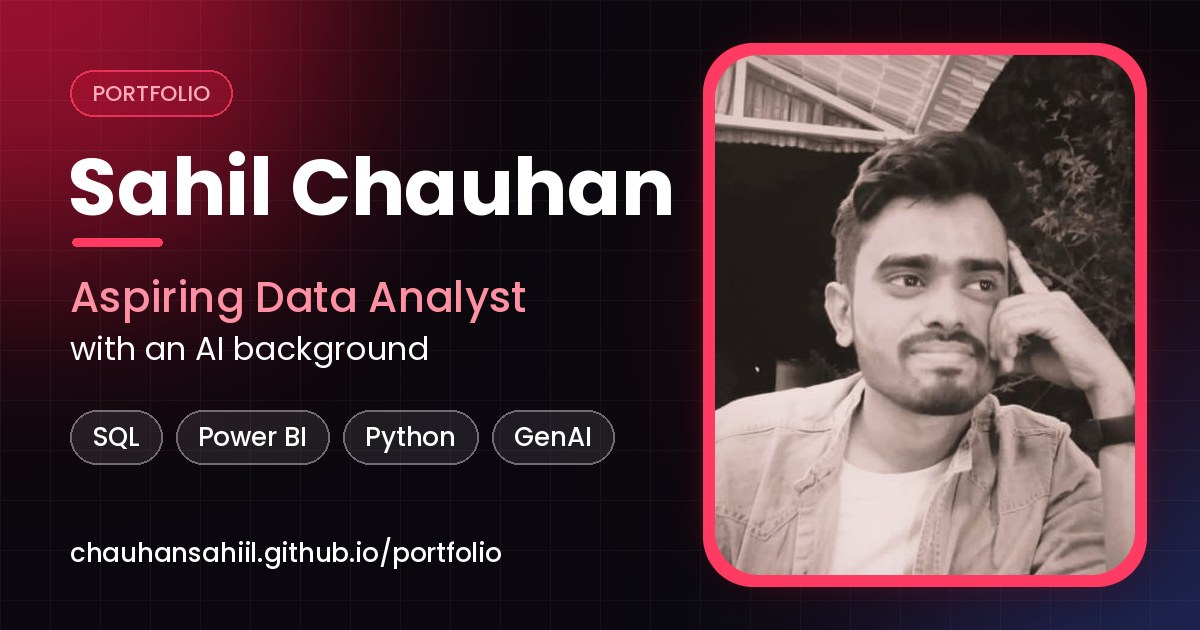
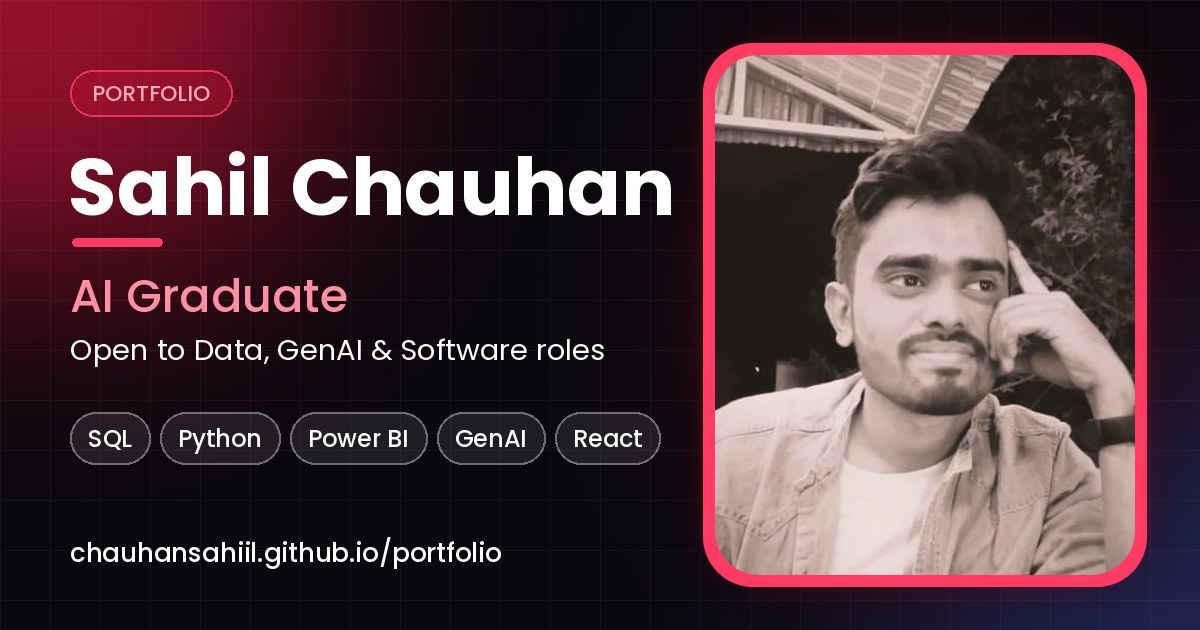
Role picker, role resumes, broader headline

Changed region(s): [[0.0617, 0.6333, 0.555, 0.754], [0.0617, 0.4222, 0.4317, 0.5127], [0.0617, 0.5429, 0.5242, 0.573]]

diff --git a/enhance.js b/enhance.js
@@ -5,6 +5,7 @@ var $=function(s,c){return(c||document).querySelector(s)},$$=function(s,c){retur
 var calm=matchMedia('(prefers-reduced-motion:reduce)').matches,fine=matchMedia('(pointer:fine)').matches;
 var mouse={x:innerWidth/2,y:innerHeight/2};
 var resume=C.RESUME_URL||(C.WORKER_URL?C.WORKER_URL+'/resume':'#contact');
+function rurl(role){if(C.RESUME_URL)return C.RESUME_URL;if(!C.WORKER_URL)return'#contact';return C.WORKER_URL+'/resume'+(C.ROLE_RESUMES&&role?'?role='+role:'')}
 $$('[data-resume]').forEach(function(a){a.href=resume;if(resume[0]!=='#'){a.target='_blank';a.rel='noopener'}});
 
 /* cursor glow */
@@ -76,6 +77,28 @@ function frame(){tick=false;
     its.forEach(function(it){var q=it.getBoundingClientRect(),d=Math.abs(q.top+q.height/2-mid);it.classList.toggle('lit',q.top<innerHeight*.62);if(d<bd){bd=d;best=it}});
     its.forEach(function(it){it.classList.toggle('active',inView&&bd<innerHeight*.6&&it===best)})}}
 addEventListener('scroll',function(){if(!tick){tick=true;requestAnimationFrame(frame)}},{passive:true});addEventListener('resize',frame);frame();
+
+/* ---------- role focus: pick a role to highlight the most relevant work and get the matching resume ---------- */
+var FOCUS_ROLES={
+ data:{label:'Data Analyst',kw:['customer trends','kulturehire','accenture','data analysis with python','analysis & visualization','data preparation','data analytics','statistics','pandas']},
+ ai:{label:'AI / GenAI',kw:['ml & ai','nvidia','deep learning','artificial intelligence','machine learning','neural','genai','llm']},
+ software:{label:'Software Developer',kw:['secure banking','blockchain','tenet','full stack','ethereum','devops','programming','databases','codesoft']}};
+var roleNow='';
+function focusUnits(){var u=[];
+ [['.services .card',1],['.experience-item',1],['.cert-card',0],['.course-panel',0]].forEach(function(g){$$(g[0]).forEach(function(el){u.push({els:[el],text:el.textContent.toLowerCase(),badge:g[1]})})});
+ $$('.skills .group-label').forEach(function(lab){var t=lab.nextElementSibling,els=[lab];if(t)els.push(t);u.push({els:els,text:(lab.textContent+' '+(t?t.textContent:'')).toLowerCase(),badge:0})});
+ return u}
+function applyRole(){var on=!!roleNow,keys=on?FOCUS_ROLES[roleNow].kw:[];
+ $$('.role-pick').forEach(function(p){$$('button[data-role]',p).forEach(function(b){var a=b.getAttribute('data-role')===roleNow;b.classList.toggle('on',a);b.setAttribute('aria-pressed',a?'true':'false')});var rs=$('.rp-reset',p);if(rs)rs.hidden=!on});
+ document.documentElement.setAttribute('data-role',roleNow);
+ $$('[data-resume]').forEach(function(a){a.href=rurl(roleNow);a.textContent='Download Resume'+(on&&C.ROLE_RESUMES?' ('+FOCUS_ROLES[roleNow].label+')':'')});
+ var groups={};focusUnits().forEach(function(u){u.m=keys.some(function(k){return u.text.indexOf(k)>-1});var key=u.els[0].className.split(' ')[0]||'x';(groups[key]=groups[key]||[]).push(u)});
+ Object.keys(groups).forEach(function(k){var g=groups[k],any=g.some(function(u){return u.m});
+  g.forEach(function(u){var match=on&&any&&u.m,dim=on&&any&&!u.m;
+   u.els.forEach(function(el){el.classList.toggle('role-match',match);el.classList.toggle('role-dim',dim)});
+   if(u.badge){var el=u.els[0],b=$('.rel-badge',el);if(match&&!b){b=document.createElement('span');b.className='rel-badge';b.textContent='Most relevant';el.insertBefore(b,el.firstChild)}else if(!match&&b)b.parentNode.removeChild(b)}})})}
+function setRole(r){roleNow=(r&&FOCUS_ROLES[r]&&roleNow!==r)?r:'';applyRole()}
+document.addEventListener('click',function(ev){var b=ev.target.closest&&ev.target.closest('.role-pick button');if(!b)return;if(b.classList.contains('rp-reset'))setRole('');else setRole(b.getAttribute('data-role'))});
 
 /* ---------- job fit checker (runs only in the browser, nothing is sent) ---------- */
 var SKILLDATA=null;
@@ -161,7 +184,7 @@ var SKILLDATA=null;
  function li(n,t){return'<li><b>'+n+'</b><span>'+t+'</span></li>'}
  function show(h){out.innerHTML=h;out.hidden=false;var b=$('#fit-ai');if(b)b.onclick=function(){openAI(true)};var cb=$('#fit-copy');if(cb)cb.onclick=function(){copyText(reportText(),cb)};var pb=$('#fit-pdf');if(pb)pb.onclick=printReport;out.scrollIntoView({behavior:calm?'auto':'smooth',block:'nearest'})}
  function pracHtml(pr){return'<div class="fit-prac"><h4>Practical fit</h4><ul>'+pr.map(function(p){return'<li class="'+p[0]+'"><i>'+({ok:'\u2713',warn:'!',info:'i'}[p[0]])+'</i><span>'+p[1]+'</span></li>'}).join('')+'</ul></div>'}
- function ctaHtml(){return'<div class="fit-cta"><a class="pillbtn" href="'+resume+'"'+(resume[0]==='#'?'':' target="_blank" rel="noopener"')+'>Download resume</a><a class="pillbtn ghost" href="#contact">Contact Sahil</a><button type="button" class="pillbtn ghost" id="fit-ai">Ask the AI more</button></div>'}
+ function ctaHtml(){var u=roleResume(fitRole);return'<div class="fit-cta"><a class="pillbtn" href="'+u+'"'+(u[0]==='#'?'':' target="_blank" rel="noopener"')+'>Download resume'+roleLabel(fitRole)+'</a><a class="pillbtn ghost" href="#contact">Contact Sahil</a><button type="button" class="pillbtn ghost" id="fit-ai">Ask the AI more</button></div>'}
  function note(m){return'<p class="fit-note">'+m+'</p>'}
  function fmt(n){return(Math.round(n*10)/10).toString()}
  function esc(s){return String(s).replace(/&/g,'&amp;').replace(/</g,'&lt;').replace(/>/g,'&gt;').replace(/"/g,'&quot;').replace(/'/g,'&#39;')}
@@ -237,19 +260,22 @@ var SKILLDATA=null;
   if(mx>=30&&!shown)add('info','Posting age: it says posted '+pt+', so the role may no longer be open. Please confirm on the employer\'s page.');
   return r}
 
- var last=null;
+ var last=null,fitRole='';
+ function famOf(hit){var F={data:/^(SQL|Power BI|Tableau|Excel|Data analysis|Reporting|Statistics|Data visualization|Data cleaning)/,ai:/^(GenAI|Machine learning|Deep learning|NLP|Computer vision|Reinforcement)/,software:/^(JavaScript|Node|REST|MongoDB|Git|Object-oriented|CI\/CD|AWS|Snowflake)/},best='',n=0;for(var k in F){var c=hit.filter(function(s){return F[k].test(s[0])}).length;if(c>n){n=c;best=k}}return best}
+ function roleResume(r){return typeof rurl==='function'?rurl(r):resume}
+ function roleLabel(r){return(typeof C!=='undefined'&&C.ROLE_RESUMES&&r&&typeof FOCUS_ROLES!=='undefined'&&FOCUS_ROLES[r])?' ('+FOCUS_ROLES[r].label+')':''}
  function reportHtml(){return'<div class="fit-share"><span>Share this result</span><button type="button" class="pillbtn" id="fit-copy">Copy summary</button><button type="button" class="pillbtn ghost" id="fit-pdf">Save as PDF</button></div>'}
  function unesc(s){return String(s).replace(/&lt;/g,'<').replace(/&gt;/g,'>').replace(/&quot;/g,'"').replace(/&#39;/g,"'").replace(/&amp;/g,'&')}
  function today(){return new Date().toLocaleDateString('en-IN',{day:'numeric',month:'short',year:'numeric'})}
  function siteUrl(){return location.origin+location.pathname}
- function reportText(){var r=last;if(!r)return'';var L=['JOB FIT SUMMARY','Candidate: Sahil Chauhan, aspiring Data Analyst (B.Tech in Artificial Intelligence, 2025), Nagpur, India','Checked on: '+today()];
+ function reportText(){var r=last;if(!r)return'';var L=['JOB FIT SUMMARY','Candidate: Sahil Chauhan, AI graduate open to Data, GenAI and Software roles (B.Tech in Artificial Intelligence, 2025), Nagpur, India','Checked on: '+today()];
   if(r.ex)L.push('Description starts with: "'+r.ex+'"');
   L.push('','VERDICT: '+r.title,r.parts.join(' '));
   if(r.hit.length){L.push('','WHERE HE FITS');r.hit.forEach(function(x){L.push('- '+x[0]+': '+x[1])})}
   if(r.miss.length){L.push('','NOT ON HIS LIST YET');r.miss.forEach(function(x){L.push('- '+x[0]+': '+x[1])})}
   if(r.pr.length){L.push('','PRACTICAL FIT');r.pr.forEach(function(p){L.push('['+({ok:'OK',warn:'CHECK',info:'INFO'}[p[0]])+'] '+unesc(p[1]))})}
   if(r.ns.length){L.push('','NOTES');r.ns.forEach(function(n){L.push('- '+n)})}
-  L.push('','Portfolio: '+siteUrl());if(resume[0]!=='#')L.push('Resume: '+resume);L.push('Contact: chauhansahil03115@gmail.com');
+  var ru=roleResume(r.role);L.push('','Portfolio: '+siteUrl());if(ru[0]!=='#')L.push('Resume: '+ru);L.push('Contact: chauhansahil03115@gmail.com');
   return L.join('\n')}
  function copyText(s,btn){var o=btn.textContent;
   function done(ok){btn.textContent=ok?'Copied \u2713':'Copy failed';btn.disabled=true;setTimeout(function(){btn.textContent=o;btn.disabled=false},2000)}
@@ -257,13 +283,13 @@ var SKILLDATA=null;
   if(navigator.clipboard&&window.isSecureContext)navigator.clipboard.writeText(s).then(function(){done(true)},fb);else fb()}
  function printHtml(r){var tone={ok:'#15803d',warn:'#b45309',bad:'#b91c1c',info:'#475569'}[r.lv]||'#475569',E=function(s){return esc(unesc(s))};
   function list(a){return a.map(function(x){return'<li><b>'+E(x[0])+'</b><span>'+E(x[1])+'</span></li>'}).join('')}
-  var h='<div class="rp-head"><div><h1>Job fit report</h1><p>Sahil Chauhan &middot; Aspiring Data Analyst &middot; B.Tech in Artificial Intelligence (2025) &middot; Nagpur, India</p></div><div class="rp-date">'+esc(today())+'</div></div>';
+  var h='<div class="rp-head"><div><h1>Job fit report</h1><p>Sahil Chauhan &middot; AI graduate open to Data, GenAI and Software roles &middot; B.Tech in Artificial Intelligence (2025) &middot; Nagpur, India</p></div><div class="rp-date">'+esc(today())+'</div></div>';
   if(r.ex)h+='<p class="rp-ex">Description: &ldquo;'+E(r.ex)+'&rdquo;</p>';
   h+='<div class="rp-verdict" style="border-color:'+tone+'"><h2 style="color:'+tone+'">'+E(r.title)+'</h2><p>'+E(r.parts.join(' '))+'</p></div>';
   if(r.hit.length||r.miss.length)h+='<div class="rp-cols"><div class="rp-col"><h3>Where he fits</h3><ul>'+(r.hit.length?list(r.hit):'<li><span>No direct matches found.</span></li>')+'</ul></div><div class="rp-col"><h3>Not on his list yet</h3><ul>'+(r.miss.length?list(r.miss):'<li><span>None of the tools checked.</span></li>')+'</ul></div></div>';
   if(r.pr.length)h+='<div class="rp-prac"><h3>Practical fit</h3><ul>'+r.pr.map(function(p){return'<li class="'+p[0]+'"><i>'+({ok:'\u2713',warn:'!',info:'i'}[p[0]])+'</i><span>'+E(p[1])+'</span></li>'}).join('')+'</ul></div>';
   if(r.ns.length)h+='<ul class="rp-notes">'+r.ns.map(function(n){return'<li>'+E(n)+'</li>'}).join('')+'</ul>';
-  h+='<div class="rp-foot"><p><b>Portfolio:</b> '+E(siteUrl())+(resume[0]!=='#'?'<br><b>Resume:</b> '+E(resume):'')+'<br><b>Contact:</b> chauhansahil03115@gmail.com</p><p>This is a keyword comparison against Sahil\'s portfolio, not a hiring decision.</p></div>';
+  h+='<div class="rp-foot"><p><b>Portfolio:</b> '+E(siteUrl())+(roleResume(r.role)[0]!=='#'?'<br><b>Resume:</b> '+E(roleResume(r.role)):'')+'<br><b>Contact:</b> chauhansahil03115@gmail.com</p><p>This is a keyword comparison against Sahil\'s portfolio, not a hiring decision.</p></div>';
   return h}
  function printReport(){var r=last;if(!r)return;var el=document.getElementById('fit-report');if(!el){el=document.createElement('div');el.id='fit-report';document.body.appendChild(el)}el.innerHTML=printHtml(r);window.print()}
  function run(){var raw=inp.value,t=clean(raw).trim();
@@ -281,8 +307,9 @@ var SKILLDATA=null;
    sh.concat(sg).forEach(function(k){if(m==='req')cls[k[0]]='req';else if(!cls[k[0]])cls[k[0]]='pref'})});
   var hit=SK.filter(function(s){return cls[s[0]]}),miss=GAP.filter(function(s){return cls[s[0]]}),dom=domains(t);
   if(hit.some(function(s){return s[0]==='Power BI / DAX'||s[0]==='Tableau'}))hit=hit.filter(function(s){return s[0]!=='Data visualization'});
+  fitRole=famOf(hit);
   if(!hit.length&&!miss.length){var nt=/nurse|doctor|physician|driver|mechanic|electrician|plumber|chef|waiter|teacher|accountant|cashier|warehouse|civil engineer|mechanical engineer|security guard|sales executive|retail/i.test(t);
-   var p0=prac(t),msg=dom?'This role is centred on '+dom+', which is outside Sahil\'s listed experience, and I could not match any tools or skills here against his profile.':(nt?'This looks like a role outside data, AI and software, so Sahil\'s profile is not a match for it.':'This description does not name tools or skills that I can compare with Sahil\'s profile, so I cannot give a skills verdict. Please read it yourself or ask Sahil directly.');last={title:'No skills verdict',lv:'info',parts:[msg],hit:[],miss:[],pr:p0,ns:['This is a keyword comparison against his portfolio, not a hiring decision, so please read the full description too.'],ex:excerpt};return show(note(msg)+(p0.length?pracHtml(p0):'')+reportHtml()+ctaHtml())}
+   var p0=prac(t),msg=dom?'This role is centred on '+dom+', which is outside Sahil\'s listed experience, and I could not match any tools or skills here against his profile.':(nt?'This looks like a role outside data, AI and software, so Sahil\'s profile is not a match for it.':'This description does not name tools or skills that I can compare with Sahil\'s profile, so I cannot give a skills verdict. Please read it yourself or ask Sahil directly.');last={role:'',title:'No skills verdict',lv:'info',parts:[msg],hit:[],miss:[],pr:p0,ns:['This is a keyword comparison against his portfolio, not a hiring decision, so please read the full description too.'],ex:excerpt};return show(note(msg)+(p0.length?pracHtml(p0):'')+reportHtml()+ctaHtml())}
   var x0=exp(t),yrs=x0.yrs,senior=/\bsenior\b|\bprincipal\b|\bstaff\b|\bhead of\b|\bdirector\b|\bmanager\b|\blead\b|\barchitect\b/i.test(t.slice(0,160)),
    fresher=/fresher|entry[- ]level|trainee|junior|campus hire|recent graduate|fresh graduate|new graduate|0\s*(?:-|\u2013|to)\s*[12]\s*years?|(?:prior |previous )?(?:professional )?experience (?:is )?not (?:required|needed)|no (?:prior )?experience (?:required|needed)|up to \d+ years? of/i.test(t)||(x0.months!==null&&x0.months<=12),
    masters=/(?:master'?s|\bm\.?sc\b|\bm\.?tech\b|post[- ]?graduate|\bph\.?d\b|doctorate)[^.\n]{0,40}(?:required|mandatory|preferred|degree)|(?:required|mandatory|preferred)[^.\n]{0,40}(?:master'?s|\bm\.?sc\b|\bm\.?tech\b|post[- ]?graduate|\bph\.?d\b|doctorate)/i.test(t);
@@ -315,7 +342,7 @@ var SKILLDATA=null;
   if(sf.length)ns.push('Soft skills mentioned ('+sf.join(', ')+') are not scored, because a portfolio cannot prove them.');
   if(senior)ns.push('The title sounds senior, which may involve ownership or leading others.');if(masters)ns.push('It mentions a master\'s degree or PhD as required or preferred. Sahil holds a B.Tech.');
   ns.push('This is a keyword comparison against his portfolio, not a hiring decision, so please read the full description too.');
-  last={title:title,lv:lv,parts:parts,hit:hit.map(function(s){return[s[0]+(cls[s[0]]==='pref'?' (nice to have)':''),s[2]]}),miss:miss.map(function(s){return[s[0]+(cls[s[0]]==='pref'?' (nice to have)':''),s[2]?'Not listed. Closest he works with: '+s[2]+'.':'Not listed on his portfolio.']}),pr:pr,ns:ns.slice(),ex:excerpt};
+  last={role:fitRole,title:title,lv:lv,parts:parts,hit:hit.map(function(s){return[s[0]+(cls[s[0]]==='pref'?' (nice to have)':''),s[2]]}),miss:miss.map(function(s){return[s[0]+(cls[s[0]]==='pref'?' (nice to have)':''),s[2]?'Not listed. Closest he works with: '+s[2]+'.':'Not listed on his portfolio.']}),pr:pr,ns:ns.slice(),ex:excerpt};
   h+='<ul class="fit-notes">'+ns.map(function(x){return'<li>'+x+'</li>'}).join('')+'</ul>';
   h+=reportHtml();h+=ctaHtml();
   show(h);var b=$('#fit-ai');if(b)b.onclick=function(){openAI(true)}}
@@ -332,9 +359,10 @@ var SKILLDATA=null;
 /* ---------- AI assistant (answers come from your own portfolio content) ---------- */
 var A=function(h,t){return'<a href="'+h+'"'+(h[0]==='#'?'':' target="_blank" rel="noopener"')+'>'+t+'</a>'};
 var GH='https://github.com/Chauhansahiil',LI='https://www.linkedin.com/in/sahil-chauhan-490b0021a/';
+function resumeAnswer(){if(C.ROLE_RESUMES&&C.WORKER_URL&&!C.RESUME_URL)return"Here are Sahil's resumes by role: "+A(rurl('data'),'Data Analyst')+", "+A(rurl('ai'),'AI / GenAI')+" or "+A(rurl('software'),'Software Developer')+".";return"Here is Sahil's resume: "+A(resume,'Download resume')}
 var REPO=GH+'/Customer-Trends-Analysis-using-SQL-Python-and-Power-BI',PAPER='https://ijirt.org/publishedpaper/IJIRT170787_PAPER.pdf',ELEV=GH+'/Elevate-lms';
 var KB=[
- {k:'resume cv download pdf',det:1,a:"Here is Sahil's resume: "+A(resume,'Download resume')},
+ {k:'resume cv download pdf',det:1,a:resumeAnswer()},
  {k:'salary ctc lpa expectation compensation',det:1,a:"Sahil is looking for around 4.5 LPA, and he is open to a conversation based on the role, the responsibilities and the growth opportunities."},
  {k:'visa sponsorship authorisation authorization permit sponsor',det:1,a:"For roles in India, Sahil does not need any visa or sponsorship. For roles outside India, he would need visa sponsorship."},
  {k:'jd description checker',det:1,a:"Paste a job description into the "+A('#fit','Check the fit')+" section and you will see which of Sahil's skills match and where the gaps are. It runs in your browser and nothing is stored."},
@@ -406,13 +434,13 @@ var INTENTS=[
  [/(?:how|who|when|with what|using what|what).{0,30}(?:built|build|made|make|created|create|developed|develop|trained|train|coded|designed|work|works)\b.{0,25}\b(?:you|this (?:chat|bot|assistant|portfolio|website|site|page)|the (?:portfolio|website|site|assistant|bot))\b|what (?:tech|technology|stack|tools?|language)\b.{0,30}(?:portfolio|website|site|you)|(?:portfolio|website|site)\b.{0,15}(?:built|made) with/i,"This portfolio is a 2026 build made with HTML, CSS and JavaScript. I'm the assistant on it: I answer from the information on Sahil's portfolio, with a small Cloudflare Worker and an AI model behind me for open-ended questions. The exact date he started building the site isn't listed."],
  [/(?:when|what date|which month|how long|how many months|date|timeline|duration).{0,40}(?:project|app|system|dashboard|paper|research)|(?:project|app|system|dashboard|paper|research).{0,40}(?:when|date|timeline|duration|how long)|(?:start|started|began|begin|completed|finished).{0,40}(?:project|banking|blockchain|customer trends|dashboard)/i,"His portfolio doesn't give start or completion dates for the projects. The blockchain banking work was published as a research paper in IJIRT in December 2024 ("+A(PAPER,'read the paper')+"), and both projects are public on GitHub: "+A(GH,'github.com/Chauhansahiil')+"."],
  [/graduat|passed out|pass ?out|passout|(?:complete|completed|completing|finish|finished|finishing)\b.{0,25}(?:b\.?tech|btech|degree|engineering|college|studies)|(?:b\.?tech|btech|degree).{0,25}(?:complete|completed|finish|finished|year)|which year.{0,20}(?:b\.?tech|btech|degree|college)|year of (?:passing|graduation)|passing year|graduation year/i,"Sahil graduated in 2025. He completed his B.Tech in Artificial Intelligence at G H Raisoni College of Engineering and Management, Nagpur (2021 \u2013 2025) with a CGPA of 6.96 / 10, after scoring 77% in XII (HSC) at Sindhu College in 2021."],
- [/\bfresher\b|how many years|years of experience|how much experience|total experience|work(?:ing)? experience|full[- ]?time (?:job|experience|role)|currently (?:working|employed)|current (?:job|employer|company|status|position)|is he (?:working|employed|experienced)/i,"Sahil graduated in 2025 and is open to opportunities, mainly Data Analyst and related roles. His portfolio lists three internships (Data Analyst at KultureHire, Full Stack Developer at Tenet and Python Programming at CodeSoft) and no full-time roles. It doesn't state his current employment status, so please ask him directly if you need that."],
+ [/\bfresher\b|how many years|years of experience|how much experience|total experience|work(?:ing)? experience|full[- ]?time (?:job|experience|role)|currently (?:working|employed)|current (?:job|employer|company|status|position)|is he (?:working|employed|experienced)/i,"Sahil graduated in 2025 and is open to Data Analyst, GenAI and Software Developer roles. His portfolio lists three internships (Data Analyst at KultureHire, Full Stack Developer at Tenet and Python Programming at CodeSoft) and no full-time roles. It doesn't state his current employment status, so please ask him directly if you need that."],
  [/e-?mail/i,"Email: chauhansahil03115@gmail.com. You can also use the "+A('#contact','contact form')+" or find him on "+A(LI,'LinkedIn')+"."],
  [/\b(?:phone|mobile|whatsapp|call)\b|contact number|home address|postal address|residential|hometown|home town/i,"His phone number isn't listed on the portfolio. You can reach him at chauhansahil03115@gmail.com, through the "+A('#contact','contact form')+", or on "+A(LI,'LinkedIn')+"."],
  [/\bage\b|how old|date of birth|\bdob\b|birthday|married|marital|\bwife\b|girlfriend|boyfriend|religion|\bcaste\b|politic|parents|\bfather\b|\bheight\b|\bweight\b/i,"Personal details like that aren't shared on Sahil's portfolio. I can help with his professional background, or you can "+A('#contact','contact him directly')+"."],
  [/linkedin|github|git hub|social media|profile link|portfolio link/i,"You can find Sahil on "+A(GH,'GitHub')+" and "+A(LI,'LinkedIn')+"."],
  [/night shift|rotational shift|\bshifts?\b|\btravel|service bond|\bbond\b|weekend/i,"His portfolio doesn't cover shift timings, travel or service-bond preferences, so please ask him directly through the "+A('#contact','contact form')+"."],
- [/freelanc|part[- ]?time|contract (?:work|role|basis)|consult/i,"His portfolio says he is open to Data Analyst and related roles, and it doesn't mention freelance, part-time or contract work, so please "+A('#contact','contact him directly')+" to discuss it."]];
+ [/freelanc|part[- ]?time|contract (?:work|role|basis)|consult/i,"His portfolio says he is open to Data Analyst, GenAI and Software Developer roles, and it doesn't mention freelance, part-time or contract work, so please "+A('#contact','contact him directly')+" to discuss it."]];
 function pick(list,q){for(var i=0;i<list.length;i++)if(list[i][0].test(q))return list[i][1];return''}
 function skillQ(q){var D=SKILLDATA;if(!D)return'';
  if(!/know|\buse\b|\bused\b|experience|familiar|skill|good|strong|level|proficien|comfortable|worked|work with|can he|does he have|has he|expert|ability|handle|rate|how well/i.test(q))return'';

diff --git a/index.html b/index.html
@@ -4,8 +4,8 @@
 <head>
     <meta charset="UTF-8">
     <meta name="viewport" content="width=device-width, initial-scale=1.0">
-    <title>Sahil Chauhan | Aspiring Data Analyst Portfolio</title>
-    <meta name="description" content="B.Tech graduate in AI from Nagpur, building dashboards with SQL, Power BI and Python. Explore my projects, ask my AI assistant, or check a job&#39;s fit.">
+    <title>Sahil Chauhan | AI Graduate | Data, GenAI &amp; Software Portfolio</title>
+    <meta name="description" content="B.Tech AI graduate from Nagpur, open to Data Analyst, GenAI and Software roles. SQL, Power BI, Python and web projects, plus an AI assistant about me.">
     <meta name="author" content="Sahil Chauhan">
     <meta name="theme-color" content="#dc143c">
     <link rel="canonical" href="https://chauhansahiil.github.io/portfolio/">
@@ -15,19 +15,19 @@
     <!-- Link preview (LinkedIn, WhatsApp, Facebook, X, Google) -->
     <meta property="og:type" content="website">
     <meta property="og:site_name" content="Sahil Chauhan | Portfolio">
-    <meta property="og:title" content="Sahil Chauhan | Aspiring Data Analyst">
-    <meta property="og:description" content="Aspiring Data Analyst with an AI degree. SQL, Power BI and Python projects, plus an AI assistant that answers questions about me.">
+    <meta property="og:title" content="Sahil Chauhan | AI Graduate &middot; Data, GenAI &amp; Software">
+    <meta property="og:description" content="B.Tech AI graduate open to Data Analyst, GenAI and Software Developer roles. Projects, an AI assistant that answers questions about me, and a job-fit checker.">
     <meta property="og:url" content="https://chauhansahiil.github.io/portfolio/">
     <meta property="og:image" content="https://chauhansahiil.github.io/portfolio/og-image.jpg">
     <meta property="og:image:width" content="1200">
     <meta property="og:image:height" content="630">
-    <meta property="og:image:alt" content="Sahil Chauhan, Aspiring Data Analyst with an AI background. SQL, Power BI, Python and GenAI.">
+    <meta property="og:image:alt" content="Sahil Chauhan, AI graduate open to Data, GenAI and Software roles. SQL, Python, Power BI, GenAI and React.">
     <meta property="og:locale" content="en_IN">
     <meta name="twitter:card" content="summary_large_image">
-    <meta name="twitter:title" content="Sahil Chauhan | Aspiring Data Analyst">
-    <meta name="twitter:description" content="Aspiring Data Analyst with an AI degree. SQL, Power BI and Python projects, plus an AI assistant that answers questions about me.">
+    <meta name="twitter:title" content="Sahil Chauhan | AI Graduate &middot; Data, GenAI &amp; Software">
+    <meta name="twitter:description" content="B.Tech AI graduate open to Data Analyst, GenAI and Software Developer roles. Projects, an AI assistant that answers questions about me, and a job-fit checker.">
     <meta name="twitter:image" content="https://chauhansahiil.github.io/portfolio/og-image.jpg">
-    <meta name="twitter:image:alt" content="Sahil Chauhan, Aspiring Data Analyst with an AI background. SQL, Power BI, Python and GenAI.">
+    <meta name="twitter:image:alt" content="Sahil Chauhan, AI graduate open to Data, GenAI and Software roles. SQL, Python, Power BI, GenAI and React.">
     <script type="application/ld+json">
 {
   "@context": "https://schema.org",
@@ -35,8 +35,8 @@
   "name": "Sahil Chauhan",
   "url": "https://chauhansahiil.github.io/portfolio/",
   "image": "https://chauhansahiil.github.io/portfolio/me.jpg",
-  "jobTitle": "Aspiring Data Analyst",
-  "description": "B.Tech graduate in Artificial Intelligence from Nagpur who turns raw data into dashboards and insights using SQL, Excel, Power BI and Python.",
+  "jobTitle": "AI Graduate",
+  "description": "B.Tech graduate in Artificial Intelligence from Nagpur, open to Data Analyst, GenAI and Software Developer roles.",
   "alumniOf": {
     "@type": "CollegeOrUniversity",
     "name": "G H Raisoni College of Engineering and Management"
@@ -57,12 +57,14 @@
     "Python",
     "Data analysis",
     "Machine learning",
-    "Generative AI"
+    "Generative AI",
+    "React",
+    "Node.js"
   ]
 }
     </script>
     <link rel="stylesheet" href="style.css">
-    <link rel="stylesheet" href="enhance.css?v=15">
+    <link rel="stylesheet" href="enhance.css?v=16">
     <link rel="stylesheet" href="https://cdnjs.cloudflare.com/ajax/libs/font-awesome/5.15.3/css/all.min.css"/>
     <script src="https://code.jquery.com/jquery-3.5.1.min.js"></script>
     <script src="https://cdnjs.cloudflare.com/ajax/libs/typed.js/2.0.11/typed.min.js"></script>
@@ -104,6 +106,7 @@
                 <div class="text-2">SAHIL CHAUHAN</div>
                 <div class="text-3">And I'm an <span class="typing"></span></div>
                 <a href="#contact">Hire me</a>
+                <div class="role-pick" role="group" aria-label="Choose a role to highlight the most relevant work"><span>I'm hiring for</span><button type="button" data-role="data" aria-pressed="false">Data Analyst</button><button type="button" data-role="ai" aria-pressed="false">AI / GenAI</button><button type="button" data-role="software" aria-pressed="false">Software</button><button type="button" class="rp-reset" hidden>Show all</button></div>
             </div>
         </div>
     </section>
@@ -117,19 +120,20 @@
                     <img src="https://res.cloudinary.com/jchdsmi0/image/upload/v1793606410/he.jpg" alt="Sahil Chauhan">
                 </div>
                 <div class="column right">
-                    <span class="status-tag"><i class="fas fa-circle"></i> Open to Data Analyst roles</span>
+                    <span class="status-tag"><i class="fas fa-circle"></i> Open to Data, GenAI and Software roles</span>
                     <h3 class="about-heading"><span class="typing-2"></span></h3>
                     <p>I'm a B.Tech graduate in Artificial Intelligence from Nagpur, passionate about turning raw data into meaningful insights and building intelligent, data-driven solutions. I work with SQL, Excel, Power BI, and Python to clean, analyze, and visualize data, develop dashboards, and identify trends that support informed decision-making. My technical expertise also includes Feature Engineering, Machine Learning fundamentals, and Generative AI (GenAI), enabling me to explore data beyond traditional analytics and build smarter, data-driven solutions.</p>
-                    <p>My work includes a Customer Trends Analysis project, a Data Analyst internship at KultureHire, and data analytics certifications from Accenture and IBM. I'm now looking for a Data Analyst role where I can turn data into reports and dashboards that help teams make decisions.</p>
+                    <p>My work includes a Customer Trends Analysis project, internships in data analysis (KultureHire) and full-stack development (Tenet), a published research paper on blockchain banking, and certifications from Accenture, IBM and NVIDIA. I'm now looking for an entry-level role in data analytics, GenAI or software development, where I can turn data and code into dashboards, reports and intelligent tools that help teams make decisions.</p>
 
                     <div class="about-facts">
                         <div class="fact"><span>Location</span>Nagpur, India</div>
                         <div class="fact"><span>Education</span>B.Tech in AI, 2021 – 2025</div>
-                        <div class="fact"><span>Focus</span>Data analysis &amp; dashboards</div>
+                        <div class="fact"><span>Focus</span>Data, GenAI &amp; software</div>
                         <div class="fact"><span>Tools</span>SQL, Excel, Power BI, Python, GenAI, AWS</div>
                     </div>
 
                     <div class="about-btns">
+                        <div class="role-pick" role="group" aria-label="Choose a role to highlight the most relevant work"><span>Resume for</span><button type="button" data-role="data" aria-pressed="false">Data Analyst</button><button type="button" data-role="ai" aria-pressed="false">AI / GenAI</button><button type="button" data-role="software" aria-pressed="false">Software</button><button type="button" class="rp-reset" hidden>Show all</button></div>
                         <a href="#" data-resume>Download Resume</a>
                         <a href="#contact" class="ghost">Contact me</a>
                     </div>
@@ -437,6 +441,6 @@
     <button id="ai-fab" data-open-ai aria-label="Open AI assistant"><span class="fab-orb" aria-hidden="true"><svg viewBox="0 0 24 24" fill="currentColor" aria-hidden="true"><path d="M12 2l2.4 6.6L21 11l-6.6 2.4L12 20l-2.4-6.6L3 11l6.6-2.4z"/><path d="M19 15l.9 2.1L22 18l-2.1.9L19 21l-.9-2.1L16 18l2.1-.9z" opacity=".85"/></svg></span><span class="fab-tx"><b>Ask my AI</b><small>Ctrl K</small></span></button>
     <script src="config.js"></script>
     <script src="script.js"></script>
-    <script src="enhance.js?v=15"></script>
+    <script src="enhance.js?v=16"></script>
 </body>
 </html>

diff --git a/enhance.css b/enhance.css
@@ -364,3 +364,20 @@ body.ai-open .scroll-up-btn{display:none!important}
  #fit-report .rp-foot{border-top:1px solid #ddd;padding-top:8px;font-size:11px;color:#444}
  #fit-report .rp-foot p{margin:0 0 4px}
 }
+
+/* ===== v16: role picker, highlighted work, role resumes ===== */
+.role-pick{display:flex;flex-wrap:wrap;align-items:center;gap:8px;margin-top:22px}
+.role-pick>span{font-size:14px;color:rgba(255,255,255,.85);margin-right:4px;text-shadow:0 1px 8px rgba(0,0,0,.6)}
+.role-pick button{font:500 13.5px 'Poppins',sans-serif;color:#fff;cursor:pointer;border:1px solid rgba(255,255,255,.4);border-radius:999px;padding:7px 15px;background:rgba(12,12,16,.62);-webkit-backdrop-filter:blur(10px);backdrop-filter:blur(10px);transition:transform .25s,border-color .25s,background .25s,box-shadow .25s}
+.role-pick button:hover{border-color:#ff8fa3;transform:translateY(-2px)}
+.role-pick button.on{background:linear-gradient(135deg,#ff3b63,crimson);border-color:transparent;box-shadow:0 10px 24px -10px crimson}
+.role-pick button.rp-reset{background:none;border-style:dashed;color:rgba(255,255,255,.8);font-size:12.5px}
+.role-pick button[hidden]{display:none}
+.about .role-pick{margin:0 0 6px;width:100%}
+.about .role-pick>span{color:rgba(255,255,255,.7);text-shadow:none}
+.role-dim{opacity:.42;filter:saturate(.55);transition:opacity .5s ease,filter .5s ease}
+.role-dim:hover{opacity:.9;filter:none}
+.role-match{transition:opacity .5s ease,filter .5s ease}
+.services .card.role-match,.experience-item.role-match{position:relative}
+.rel-badge{position:absolute;top:14px;right:14px;z-index:3;font:600 11px 'Poppins',sans-serif;letter-spacing:.3px;color:#fff;background:linear-gradient(135deg,#ff3b63,crimson);padding:4px 11px;border-radius:999px;box-shadow:0 8px 18px -8px crimson;pointer-events:none}
+@media(max-width:500px){.role-pick button{font-size:12.5px;padding:6px 12px}.role-pick>span{width:100%}}

diff --git a/worker/index.js b/worker/index.js
@@ -43,13 +43,17 @@ export default {
       "Vary": "Origin"
     };
     const reply = (obj, status = 200) =>
-      new Response(JSON.stringify(obj), { status, headers: { ...cors, "Content-Type": "application/json" } });
+      new Response(JSON.stringify(obj), { status, headers: { ...cors, "Content-Type": "application/json", "X-Content-Type-Options": "nosniff", "Cache-Control": "no-store" } });
 
     if (req.method === "OPTIONS") return new Response(null, { status: 204, headers: cors });
 
     if (url.pathname === "/resume" && req.method === "GET") {
-      if (!env.RESUME_URL) return reply({ error: "not configured" }, 503);
-      return Response.redirect(env.RESUME_URL, 302);
+      // Optional role-specific resumes: RESUME_URL_DATA, RESUME_URL_AI, RESUME_URL_SOFTWARE. Falls back to RESUME_URL.
+      const role = (url.searchParams.get("role") || "").toLowerCase();
+      const byRole = new Map([["data", env.RESUME_URL_DATA], ["ai", env.RESUME_URL_AI], ["software", env.RESUME_URL_SOFTWARE]]);
+      const target = byRole.get(role) || env.RESUME_URL;
+      if (!target) return reply({ error: "not configured" }, 503);
+      return Response.redirect(target, 302);
     }
 
     if (url.pathname === "/contact" && req.method === "POST") {

diff --git a/worker/knowledge.js b/worker/knowledge.js
@@ -65,6 +65,7 @@ Salary expectation: around 4.5 LPA, open to discussion based on the role, respon
 Work authorisation: for jobs in India he needs no visa or sponsorship; for jobs outside India he would need visa sponsorship.
 
 OTHER QUESTIONS
+The website has a role switcher (Data Analyst, AI / GenAI or Software) that highlights the most relevant projects, experience and skills for that role.
 Graduation: Sahil graduated in 2025 (B.Tech in Artificial Intelligence, 2021 - 2025). He is an entry-level candidate; his portfolio lists internships and no full-time roles, and it does not state his current employment status.
 Project dates: the portfolio does not give start or completion dates for his projects. The blockchain research paper was published in IJIRT in December 2024.
 This website and assistant: the portfolio is a 2026 build made with HTML, CSS and JavaScript. The assistant answers from the information on the portfolio, using a small Cloudflare Worker and an AI model. The exact date the site was started is not listed.

diff --git a/script.js b/script.js
@@ -35,16 +35,18 @@ $(document).ready(function(){
 
     // typing text animation script
     var typed = new Typed(".typing", {
-        strings: ["Aspiring Data Analyst"],
-        typeSpeed: 100,
-        backSpeed: 60,
+        strings: ["AI Graduate", "Aspiring Data Analyst", "Aspiring GenAI Engineer", "Aspiring Software Developer"],
+        typeSpeed: 90,
+        backSpeed: 50,
+        backDelay: 1400,
         loop: true
     });
 
     var typed = new Typed(".typing-2", {
-        strings: ["Aspiring Data Analyst with an AI background"],
-        typeSpeed: 100,
-        backSpeed: 60,
+        strings: ["AI graduate open to Data, GenAI and Software roles", "Turning data and code into useful products"],
+        typeSpeed: 70,
+        backSpeed: 40,
+        backDelay: 1800,
         loop: true
     });
 

diff --git a/config.js b/config.js
@@ -1,6 +1,7 @@
 // Public settings only. Never put secrets here: this file is shipped to every visitor's browser.
 window.SITE_CONFIG = {
-  WORKER_URL: "https://portfolio-api.sahil-portfolio.workers.dev",   // e.g. "https://portfolio-api.YOUR-SUBDOMAIN.workers.dev" (see README.md)
+  WORKER_URL: "https://portfolio-api.sahil-portfolio.workers.dev",
+  ROLE_RESUMES: true,
   RESUME_URL: "",   // keep empty in the repo. For local testing only, paste your resume link here and do not commit it.
   AI_ENDPOINT: ""   // optional: your own URL for a real LLM chat backend
 };
